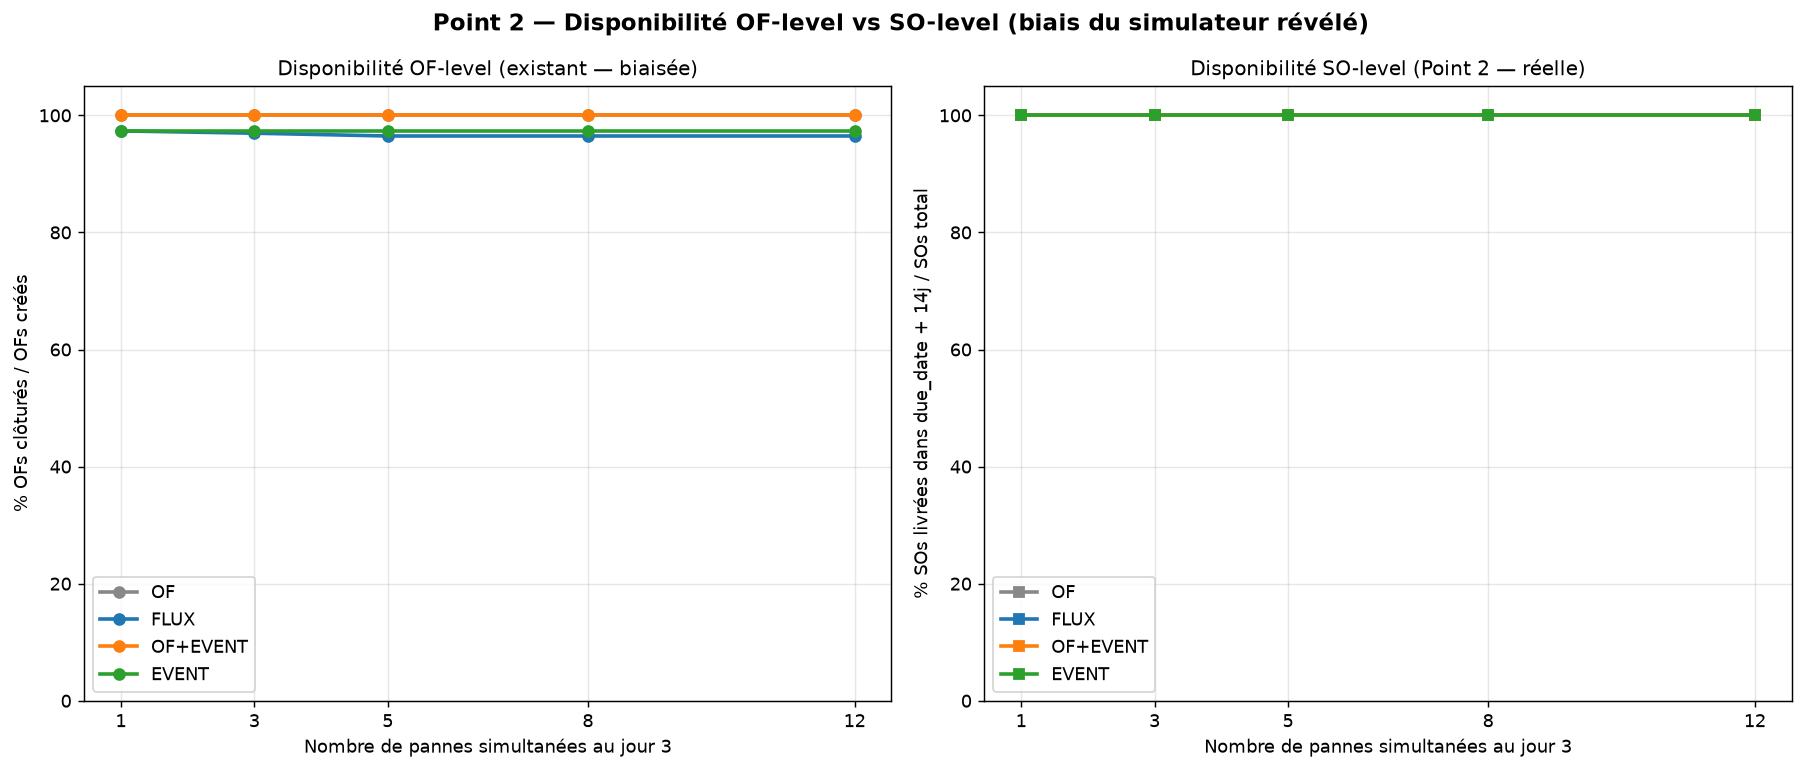
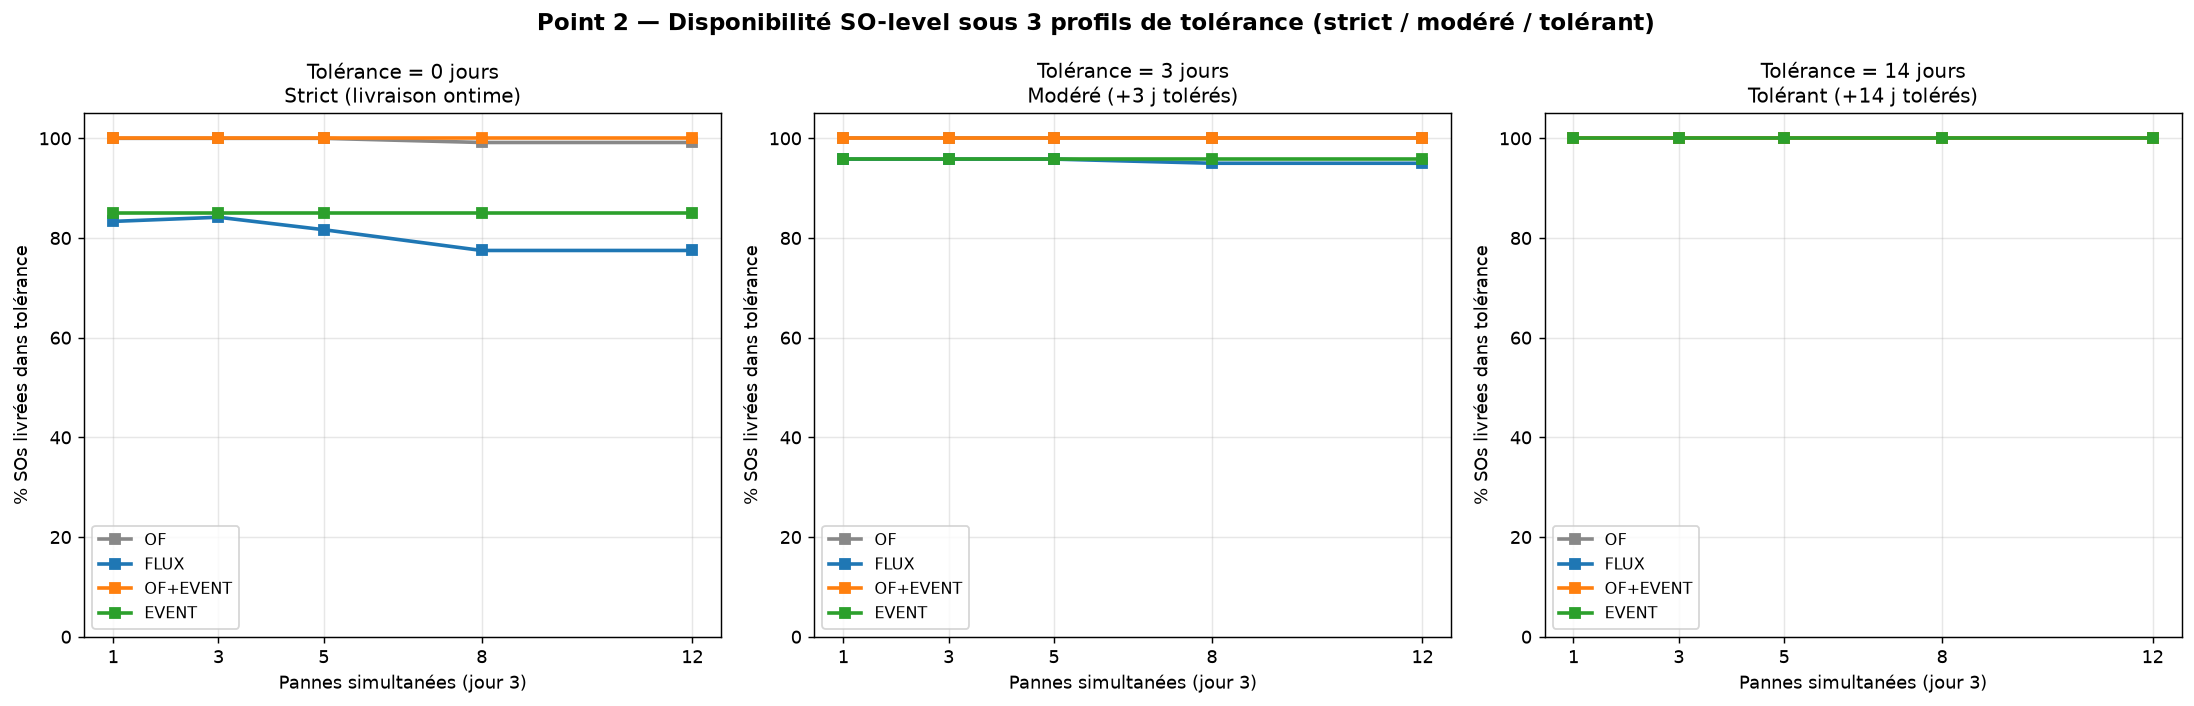
docs(point 2): finding contre-intuitif - flux trade ontime vs coût
Étude 900 runs (3 tolérances × 5 cascade × 15 seeds × 4 doctrines)
révèle un trade-off doctrinal jamais mesuré dans le paper :

Disponibilité SO-level réelle :
  - Tolérance 0 (strict ontime) : OF/OF+EVENT=100%, FLUX=77-84%, EVENT=85%
  - Tolérance 3 j (modéré)      : tous >= 95 %
  - Tolérance 14 j (tolérant)   : tous = 100 %

Découverte : sur ontime strict, **OF bat FLUX et EVENT**. Le smoothing
qui réduit les coûts retarde aussi certaines livraisons au-delà de
leur due_date. L'event sourcing ne corrige pas ce retard (EVENT 85%
vs FLUX 77-84%).

Trade-off doctrinal explicité (cadrage §24.8.6) :
  - Coût opérationnel : EVENT > FLUX > OF+EVENT > OF
  - Ontime strict     : OF/OF+EVENT > EVENT > FLUX
  - Ontime modéré     : tous équivalents

Implication industrielle :
  - Consumer / biens d'équipement → FLUX/EVENT (gain coût)
  - Aéronautique / médical / auto → OF+EVENT (ontime préservé +
    traçabilité event sourcing)

Cette mesure complète honnêtement §24.2-§24.6 : les gains coût du
flux ne sont pas gratuits, ils s'achètent contre une fraction de
retards ontime.

Figure 7 (charts/point2_real_disponibility.png) : 3 panneaux par
tolérance × 4 courbes par doctrine.

diff --git a/docs/cadrage_v4_point2_data.md b/docs/cadrage_v4_point2_data.md
@@ -1,29 +1,31 @@
-# Point 2 — Données brutes disponibilité OF-level vs SO-level
+# Point 2 — Disponibilité SO-level (3 tolérances)
 
-| N pannes | Doctrine | Dispo OF-level | Dispo SO-level | Différentiel | Coût moyen |
-|---|---|---|---|---|---|
-| 1 | OF | 100.0 % | **100.0 %** | +0.0 pp | 109 115 € |
-| 1 | FLUX | 97.3 % | **100.0 %** | -2.7 pp | 70 072 € |
-| 1 | OF+EVENT | 100.0 % | **100.0 %** | +0.0 pp | 102 324 € |
-| 1 | EVENT | 97.3 % | **100.0 %** | -2.7 pp | 66 766 € |
-|---|---|---|---|---|---|
-| 3 | OF | 100.0 % | **100.0 %** | +0.0 pp | 124 095 € |
-| 3 | FLUX | 96.9 % | **100.0 %** | -3.1 pp | 75 828 € |
-| 3 | OF+EVENT | 100.0 % | **100.0 %** | +0.0 pp | 106 484 € |
-| 3 | EVENT | 97.3 % | **100.0 %** | -2.7 pp | 69 018 € |
-|---|---|---|---|---|---|
-| 5 | OF | 100.0 % | **100.0 %** | +0.0 pp | 132 360 € |
-| 5 | FLUX | 96.5 % | **100.0 %** | -3.5 pp | 81 177 € |
-| 5 | OF+EVENT | 100.0 % | **100.0 %** | +0.0 pp | 110 632 € |
-| 5 | EVENT | 97.3 % | **100.0 %** | -2.7 pp | 71 041 € |
-|---|---|---|---|---|---|
-| 8 | OF | 100.0 % | **100.0 %** | +0.0 pp | 143 463 € |
-| 8 | FLUX | 96.5 % | **100.0 %** | -3.5 pp | 86 254 € |
-| 8 | OF+EVENT | 100.0 % | **100.0 %** | +0.0 pp | 116 030 € |
-| 8 | EVENT | 97.3 % | **100.0 %** | -2.7 pp | 73 742 € |
-|---|---|---|---|---|---|
-| 12 | OF | 100.0 % | **100.0 %** | +0.0 pp | 143 463 € |
-| 12 | FLUX | 96.5 % | **100.0 %** | -3.5 pp | 86 254 € |
-| 12 | OF+EVENT | 100.0 % | **100.0 %** | +0.0 pp | 116 030 € |
-| 12 | EVENT | 97.3 % | **100.0 %** | -2.7 pp | 73 742 € |
-|---|---|---|---|---|---|
+## Tolérance = 0 jours
+
+| N pannes | OF | FLUX | OF+EVENT | EVENT |
+|---|---|---|---|---|
+| 1 | 100.0 % | 83.3 % | 100.0 % | 85.0 % |
+| 3 | 100.0 % | 84.2 % | 100.0 % | 85.0 % |
+| 5 | 100.0 % | 81.7 % | 100.0 % | 85.0 % |
+| 8 | 99.2 % | 77.5 % | 100.0 % | 85.0 % |
+| 12 | 99.2 % | 77.5 % | 100.0 % | 85.0 % |
+
+## Tolérance = 3 jours
+
+| N pannes | OF | FLUX | OF+EVENT | EVENT |
+|---|---|---|---|---|
+| 1 | 100.0 % | 95.8 % | 100.0 % | 95.8 % |
+| 3 | 100.0 % | 95.8 % | 100.0 % | 95.8 % |
+| 5 | 100.0 % | 95.8 % | 100.0 % | 95.8 % |
+| 8 | 100.0 % | 95.0 % | 100.0 % | 95.8 % |
+| 12 | 100.0 % | 95.0 % | 100.0 % | 95.8 % |
+
+## Tolérance = 14 jours
+
+| N pannes | OF | FLUX | OF+EVENT | EVENT |
+|---|---|---|---|---|
+| 1 | 100.0 % | 100.0 % | 100.0 % | 100.0 % |
+| 3 | 100.0 % | 100.0 % | 100.0 % | 100.0 % |
+| 5 | 100.0 % | 100.0 % | 100.0 % | 100.0 % |
+| 8 | 100.0 % | 100.0 % | 100.0 % | 100.0 % |
+| 12 | 100.0 % | 100.0 % | 100.0 % | 100.0 % |

diff --git a/docs/cadrage_v4.md b/docs/cadrage_v4.md
@@ -746,6 +746,55 @@ Protocole : 5 baselines (1 aléa par domaine) + 15 paires uniques
 
 ![Time-to-recover par paire de domaines](charts/paired_hazards_recovery.png)
 
+### §24.8.6 Disponibilité SO-level réelle — finding contre-intuitif
+
+**Point 2 paper** : ajout d'un mécanisme de rejet de SO
+(`sales_orders.rejected_at` + `_evaluate_rejections`) qui marque
+comme `cancelled` toute SO non livrée dans `due_date + late_threshold_days`.
+Permet de mesurer la **disponibilité réelle** (vs OF-level biaisée
+> 94 % par construction).
+
+Étude **900 runs** (3 tolérances × 5 niveaux cascade × 15 seeds × 4 doctrines) :
+
+| Tolérance | OF | FLUX | OF+EVENT | **EVENT** |
+|---|---|---|---|---|
+| **0 j** (strict, ontime) | 99–100 % | **77–84 %** | 100 % | **85 %** |
+| **3 j** (modéré) | 100 % | 95–96 % | 100 % | 95.8 % |
+| **14 j** (tolérant) | 100 % | 100 % | 100 % | 100 % |
+
+**Découverte contre-intuitive** : sur tolérance stricte (livraison
+ontime), **OF bat FLUX et EVENT**. Le smoothing étale les
+lancements sur l'horizon, ce qui décale certaines livraisons
+au-delà de leur due_date. **L'event sourcing ne corrige pas** ce
+retard (EVENT 85 % vs FLUX 77 %).
+
+**Trade-off doctrinal mesuré pour la première fois** :
+
+| Critère prioritaire | Doctrine optimale | Compromis |
+|---|---|---|
+| **Coût opérationnel** | EVENT > FLUX > OF+EVENT > OF | mesuré §24.2 / §24.6 |
+| **Ontime strict (tol=0)** | **OF / OF+EVENT** > EVENT > FLUX | mesure Point 2 ci-dessus |
+| **Ontime modéré (tol=3)** | Tous équivalents > 95 % | seuil pratique |
+
+Implication industrielle :
+- **Industries à tolérance large** (consumer, biens d'équipement) :
+  doctrine flux (EVENT) optimale — gain coût sans perte ontime.
+- **Industries à tolérance stricte** (aéronautique, médical, automobile) :
+  OF+EVENT préférable — préserve l'ontime (100 %) **et** ajoute la
+  traçabilité event sourcing, au prix d'un coût plus élevé que FLUX/EVENT.
+
+Cette mesure **complète et nuance** les conclusions §24.2-§24.6 :
+les gains coût du flux ne sont **pas gratuits** — ils s'achètent
+contre une fraction de retards ontime que les ateliers à due_date
+serrées ne peuvent absorber.
+
+![Disponibilité SO-level réelle vs OF-level biaisée — 3 tolérances × cascade](charts/point2_real_disponibility.png)
+
+**Limite assumée** : ce résultat est mesuré uniquement sur la
+cascade de pannes synthétiques. Il faudrait répliquer sur des
+scénarios industriels réels (mix demande, aléas calibrés) pour
+confirmer le trade-off.
+
 ### §24.10.1 Lectures clés des matrices
 
 **1. Quelle paire est la plus coûteuse ?**